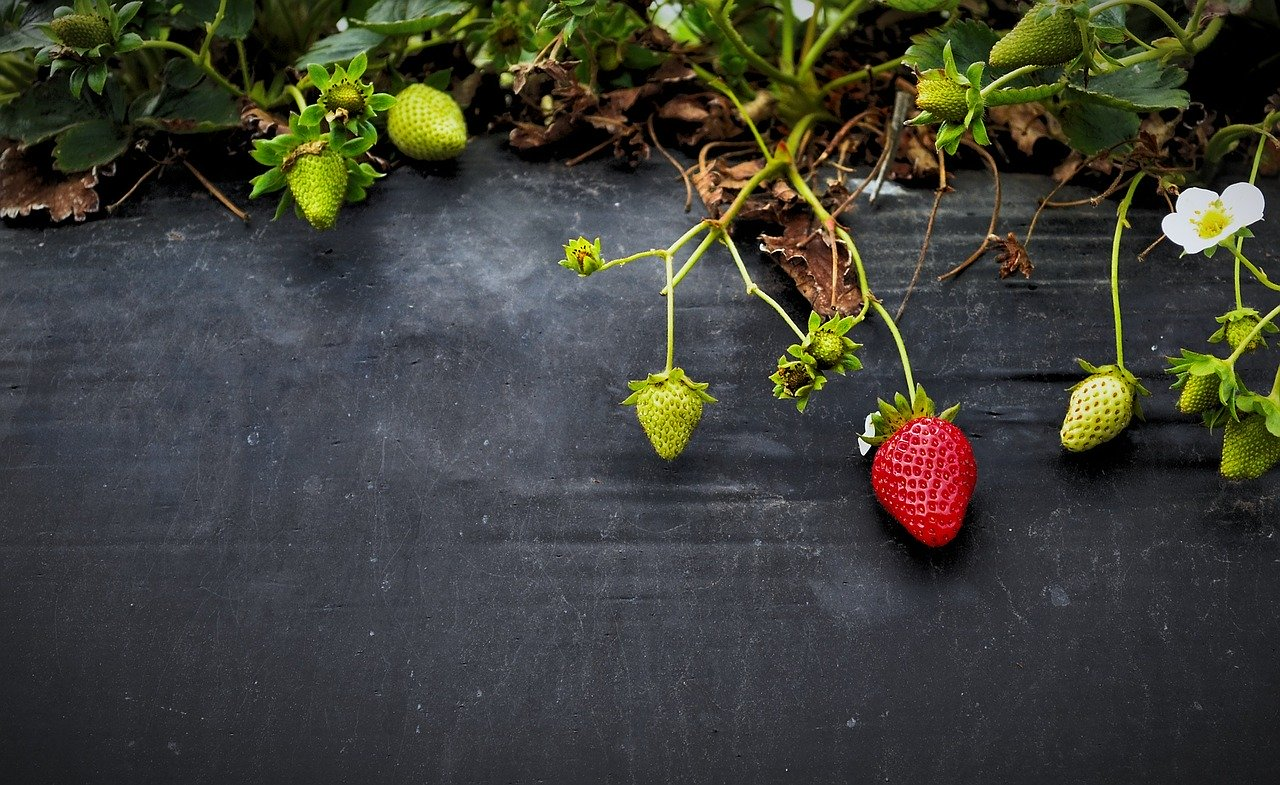
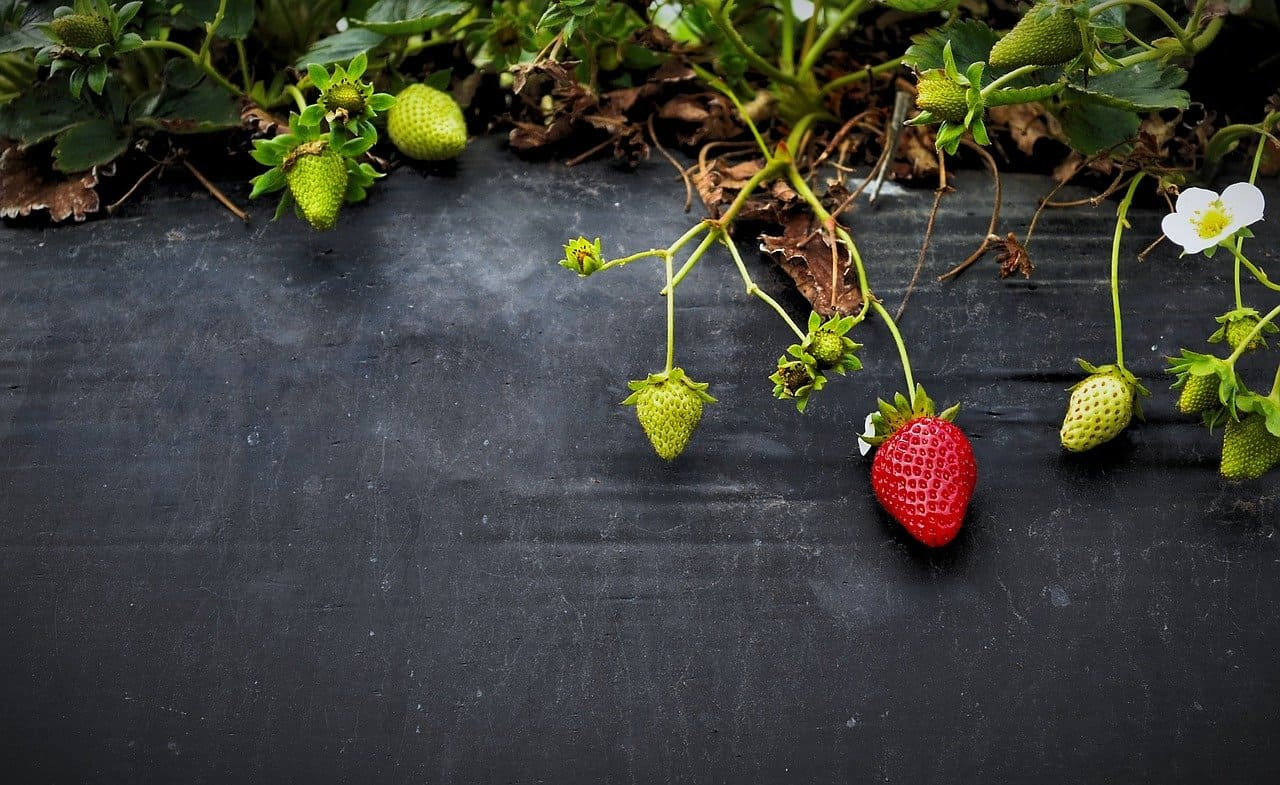
画像を圧縮

diff --git a/index.html b/index.html
@@ -72,7 +72,7 @@
             <i class="fas fa-user-alt title_icon"></i>
             <h2>about me</h2>
             <div class="row">
-                <div class="col-sm-4 d-flex align-item-center about_image"><img src="img/photo/my_photo.JPG" width="100%" alt=""></div>
+                <div class="col-sm-4 d-flex align-item-center about_image"><img src="img/photo/my_photo.jpg" width="100%" alt=""></div>
                 <div class="col-sm-7 offset-sm-1 about_status">
                     <div class="name_title">
                         <p>市古空/ICHIGO SORA</p>
@@ -198,6 +198,7 @@
                 <div class="modal-content">
                     <video src="video/gurusupo.mp4" controls playsinline preload="none" width="100%"></video>
                 </div>
+                    <p>※再生ボタンを押すと再生されます</p>
             </div>
         </div>
 

diff --git a/css/main.css b/css/main.css
@@ -411,6 +411,8 @@ header {
 .modal {
   padding-right: 0;
   z-index: 10001; }
+  .modal p {
+    color: white; }
 
 .modal-dialog {
   position: relative;

diff --git a/css/main.scss b/css/main.scss
@@ -630,6 +630,9 @@ header {
 .modal {
     padding-right: 0;
     z-index: 10001;
+    p{
+        color:white;
+    }
 }
 
 .modal-dialog {
